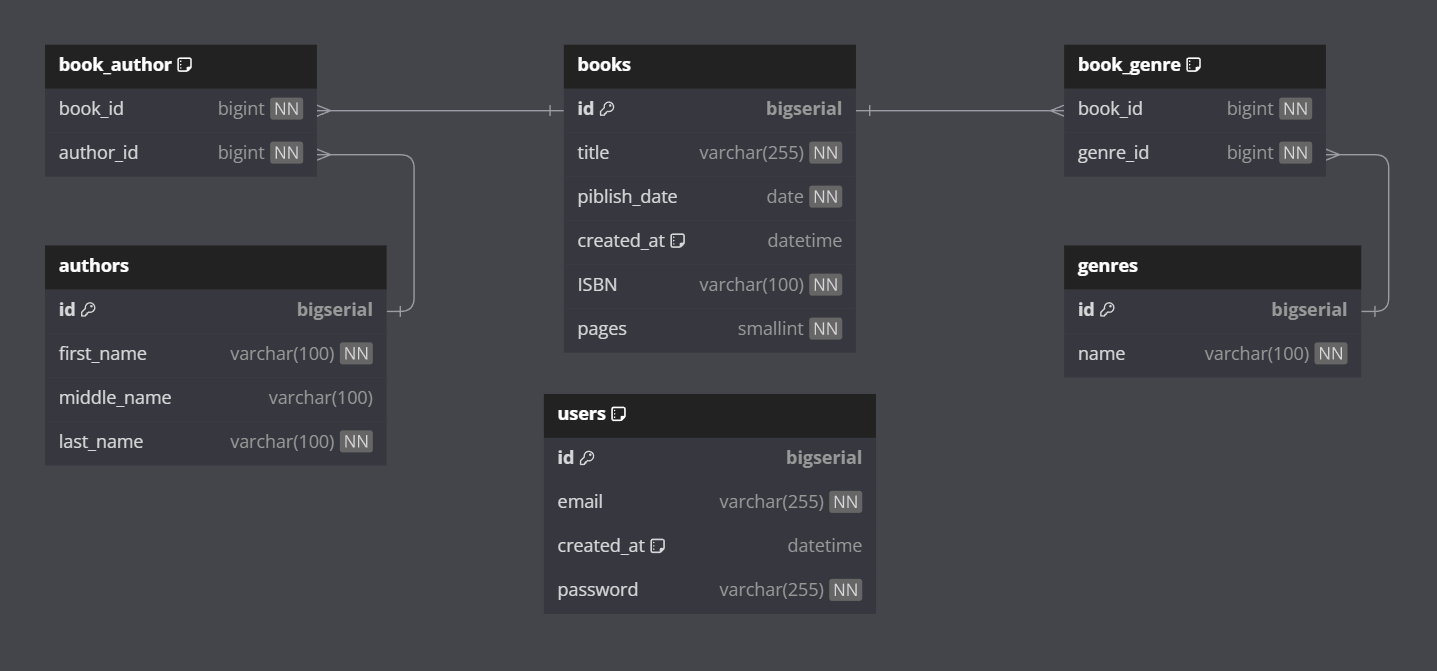
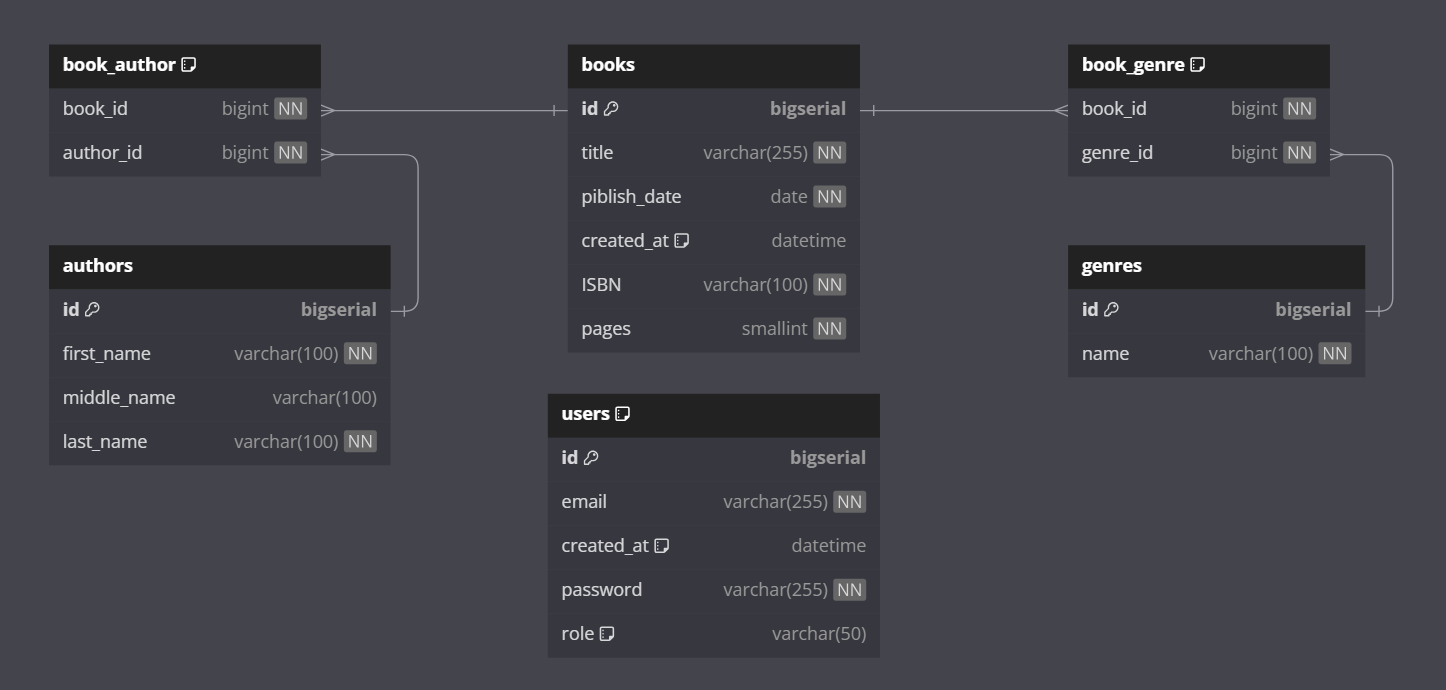
Add user role and migration

diff --git a/pkg/types/user.go b/pkg/types/user.go
@@ -10,6 +10,13 @@ import (
 
 const COST = 10
 
+type Role string
+
+const (
+	AdminRole Role = "admin"
+	UserRole  Role = "user"
+)
+
 type contextKey string
 
 const UserContextKey = contextKey("user")
@@ -18,6 +25,7 @@ type User struct {
 	ID        int64     `json:"id,omitempty"`
 	CreatedAt time.Time `json:"created_at,omitempty"`
 	Email     string    `json:"email"`
+	Role      Role      `json:"role"`
 }
 
 var AnonymousUser = &User{}

diff --git a/README.md b/README.md
@@ -28,6 +28,8 @@
 💡Check db/docs for more info about db schema. 
 Feel free to insert db schema from txt file to dbdiagram.io to see it in a more convenient way.
 
+To generate migration use `migrate create -ext sql -dir db/migrations -seq migration_name`
+
 ### 📝How to run:
 - Configure .env.example file or use mine configuration and rename it to .env
 - Run `docker-compose up --build` to build and run the app
@@ -62,7 +64,7 @@ Feel free to insert db schema from txt file to dbdiagram.io to see it in a more 
     [X] add error responses & logging
     [X] add tests and refactor CRUD handlers
 [X] Add registration and authentication    
-[ ] Add authorization  
+[_] Add authorization  
 [ ] Add caching with Redis  
 
 [X] Add project auto rebuild  
